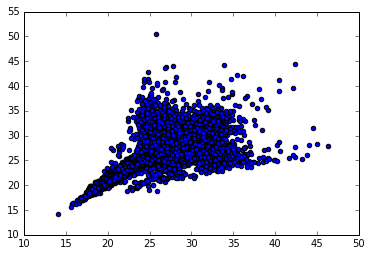
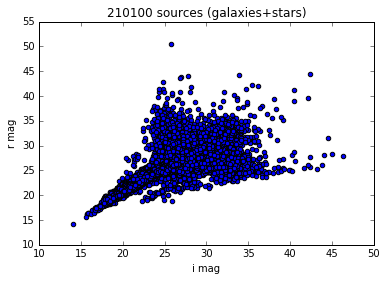
Update doc

Changed region(s): [[0.0, 0.0312, 1.0, 0.9688], [0.7688, 0.2188, 0.828, 0.2812], [0.414, 0.125, 0.4435, 0.1875]]

diff --git a/clusters/data.py b/clusters/data.py
@@ -31,7 +31,7 @@ def get_astropy_table(cat):
     :return: the corresponding astropy.table.Table
     """
     schema = cat.getSchema()
-    dic = {n: cat.get(n) for n in schema.getNames()}
+    dic = cat.getColumnView().extract("*")
     tab = Table(dic)
     for k in schema.getNames():
         tab[k].description = shorten(schema[k].asField().getDoc())

diff --git a/docs/source/data_tuto.rst b/docs/source/data_tuto.rst
@@ -39,7 +39,7 @@ To load the ``forced`` catalog, do:
 
 .. parsed-literal::
 
-    ['forced', 'meas']
+    ['forced', 'meas', 'wcs']
 
 
 and ``fc`` is an astropy table
@@ -156,7 +156,11 @@ and plot them against each other
 
 .. code:: python
 
+    # ignore the following line
     %matplotlib inline
+
+.. code:: python
+
     import pylab
     pylab.scatter(magi, magr)
     pylab.xlabel('i mag')
@@ -168,22 +172,20 @@ and plot them against each other
 
 .. parsed-literal::
 
-    <matplotlib.text.Text at 0x7fe09490fb50>
+    <matplotlib.text.Text at 0x7f740ee46090>
 
 
 
 
-.. image:: data_tuto_files/data_tuto_17_1.png
+.. image:: data_tuto_files/data_tuto_18_1.png
 
 
 A few standard filters have been implemented in ``data`` and can be used directly to get a clean sample of galaxies:  
 
 .. code:: python
 
-    # ignore these lines
-    import warnings
-    warnings.filterwarnings("ignore")
-    # ignore these lines
+    # ignore the following line
+    import warnings; warnings.filterwarnings("ignore")
 
 .. code:: python
 
@@ -206,12 +208,12 @@ The same plot as in the above example now looks like
 
 .. parsed-literal::
 
-    <matplotlib.text.Text at 0x7fe0ee741350>
+    <matplotlib.text.Text at 0x7f740f87f490>
 
 
 
 
-.. image:: data_tuto_files/data_tuto_22_1.png
+.. image:: data_tuto_files/data_tuto_23_1.png
 
 
 See `the code <https://github.com/nicolaschotard/Clusters/blob/master/clusters/data.py#L207>`_ for a few other examples on how to use filters.
@@ -253,12 +255,12 @@ Add it to the initial table and plot it against the initial magnitude (for the `
 
 .. parsed-literal::
 
-    <matplotlib.text.Text at 0x7fe0eeaa52d0>
+    <matplotlib.text.Text at 0x7f740f002910>
 
 
 
 
-.. image:: data_tuto_files/data_tuto_29_1.png
+.. image:: data_tuto_files/data_tuto_30_1.png
 
 
 You can also add several columns using ``fc.add_columns([Columns(...), Columns(...), etc])``.
